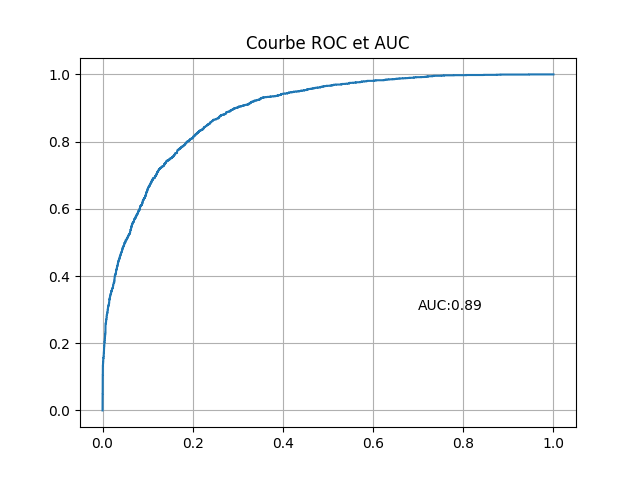
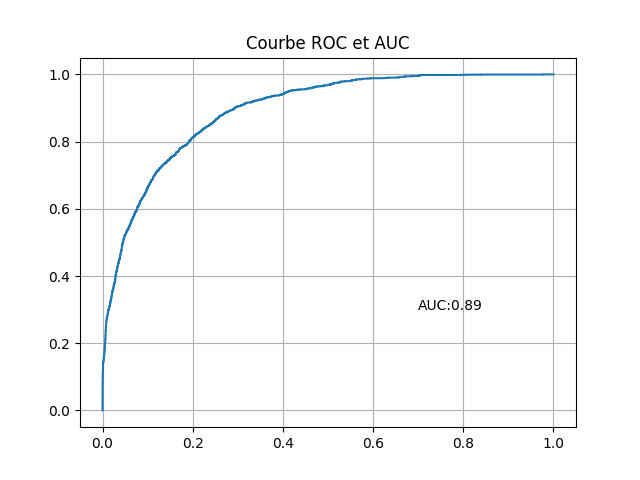
Dev Arbre de décision

diff --git a/models.py b/models.py
@@ -1,7 +1,8 @@
 import pandas as pd
 from sklearn.linear_model import LogisticRegression
 from sklearn.model_selection import train_test_split
-from sklearn.metrics import confusion_matrix, classification_report, auc, roc_curve, f1_score, matthews_corrcoef
+from sklearn import tree
+from sklearn.metrics import confusion_matrix, classification_report, auc, roc_curve, matthews_corrcoef
 import argparse
 import numpy as np
 import matplotlib.pyplot as plt
@@ -11,16 +12,14 @@ parser = argparse.ArgumentParser()
 parser.add_argument('filename')
 args = parser.parse_args()
 
-def Create_Train_Test(df):
+def Create_Train_Test(df, is_x_dummies):
     """
     Créer les dataframes de test et d'entraînement 
     """
     y = df.pop('income')
     y = pd.get_dummies(y)['>50K']
     X = pd.get_dummies(df)
-
     X_train, X_test, y_train, y_test = train_test_split(X, y, test_size = 0.2)
-    print(X_train.columns)
 
     return X_train, X_test, y_train, y_test
 
@@ -36,18 +35,23 @@ def Drop_References_Variables(X_train, X_test, vars):
 
 def Logistic_Regression(X_train, y_train):
     """
-    Créer le modèle grâce aux datasets d'entraînement
+    Crée le Logit grâce aux datasets d'entraînement
     """
     model = LogisticRegression(random_state = 0).fit(X_train, y_train)
 
     return model
 
-def Evaluation(model, X_test, y_test):
+def DecisionTree(X_train, y_train):
+    """
+    Créer l'arbre de décision grâce aux datasets d'entraînement
+    """
+    model = tree.DecisionTreeClassifier(random_state=0).fit(X_train, y_train)
+    return model
+
+def EvaluationLogit(model, X_test, y_test):
     """
     Affiche les résultats du modèle avec les datasets de test
     """
-    file = args.filename.split('.')[0].split('/')[-1]
-
     predict_Y = model.predict(X_test)
     print('Intercept', model.intercept_)
     df_coefficents = pd.DataFrame({'Variables':model.feature_names_in_,
@@ -61,6 +65,21 @@ def Evaluation(model, X_test, y_test):
     f1_score = class_report.loc['f1-score']['True']
     MCC = matthews_corrcoef(y_test, predict_Y)
     print('Matrice de confusion :\n', confusion_matrix(y_test, predict_Y))
+    AUC = ROC(model, X_test, y_test, isLogit=True)
+
+    df_metrics = pd.DataFrame({'Valeur':[AUC, f1_score, Accuracy, MCC],
+                               'Cible':[0.8, 0.75, 0.85, 0.75]},
+                               index = ['AUC', 'F1-Score', 'Accuracy', 'MCC'])
+    return df_metrics
+
+def ROC(model, X_test, y_test, isLogit):
+    """
+    """
+    if isLogit:
+        file = args.filename.split('.')[0].split('/')[-1]+'_Logit'
+    else:
+        file = args.filename.split('.')[0].split('/')[-1]+'_Tree' 
+
     FER, TER, threshold = roc_curve(y_test, model.predict_proba(X_test)[:,1])
     AUC = auc(FER,TER)
 
@@ -73,10 +92,7 @@ def Evaluation(model, X_test, y_test):
     plt.savefig(f'images/ROC_{file}.png')
     # plt.show()
 
-    df_metrics = pd.DataFrame({'Valeur':[AUC, f1_score, Accuracy, MCC],
-                               'Cible':[0.8, 0.75, 0.85, 0.75]},
-                               index = ['AUC', 'F1-Score', 'Accuracy', 'MCC'])
-    return df_metrics
+    return AUC
 
 def Scoring(df_metrics):
     """
@@ -92,16 +108,33 @@ def Scoring(df_metrics):
     score = df_metrics.apply(lambda row : 1 if row['Valeur'] > row['Cible'] else 0, axis=1).sum()
     print('Score du Logit:', score)
 
-def main():
-    df = pd.read_csv(args.filename)
-    X_train, X_test, y_train, y_test = Create_Train_Test(df)
+def LOGIT(df):
+    #### LOGIT ####
+    X_train, X_test, y_train, y_test = Create_Train_Test(df, True)
     vars = ['native-country_United-States', 'workclass_Private', 'occupation_Prof-specialty', 
             'gender_Male', 'education_HS-grad', 'relationship_Husband', 'marital-status_Married-civ-spouse',
             'race_White']
     refs_vars, X_train, X_test = Drop_References_Variables(X_train, X_test, vars)
-    model = Logistic_Regression(X_train, y_train)
-    df_metrics = Evaluation(model, X_test, y_test)
-    Scoring(df_metrics)
+    model_logit = Logistic_Regression(X_train, y_train)
+    df_metrics_logit = Evaluation(model_logit, X_test, y_test)
+    Scoring(df_metrics_logit)
+    ###############
+
+def TREE(df):
+    #### TREE #####
+    X_train, X_test, y_train, y_test = Create_Train_Test(df, False)
+    model_decision_tree = DecisionTree(X_train, y_train)
+    df_metrics_tree = Evaluation(model_decision_tree, X_test, y_test)
+    Scoring(df_metrics_tree)
+    ###############
+
+def main():
+
+    df = pd.read_csv(args.filename)
+    TREE(df)
+
+
+
     
 
 
